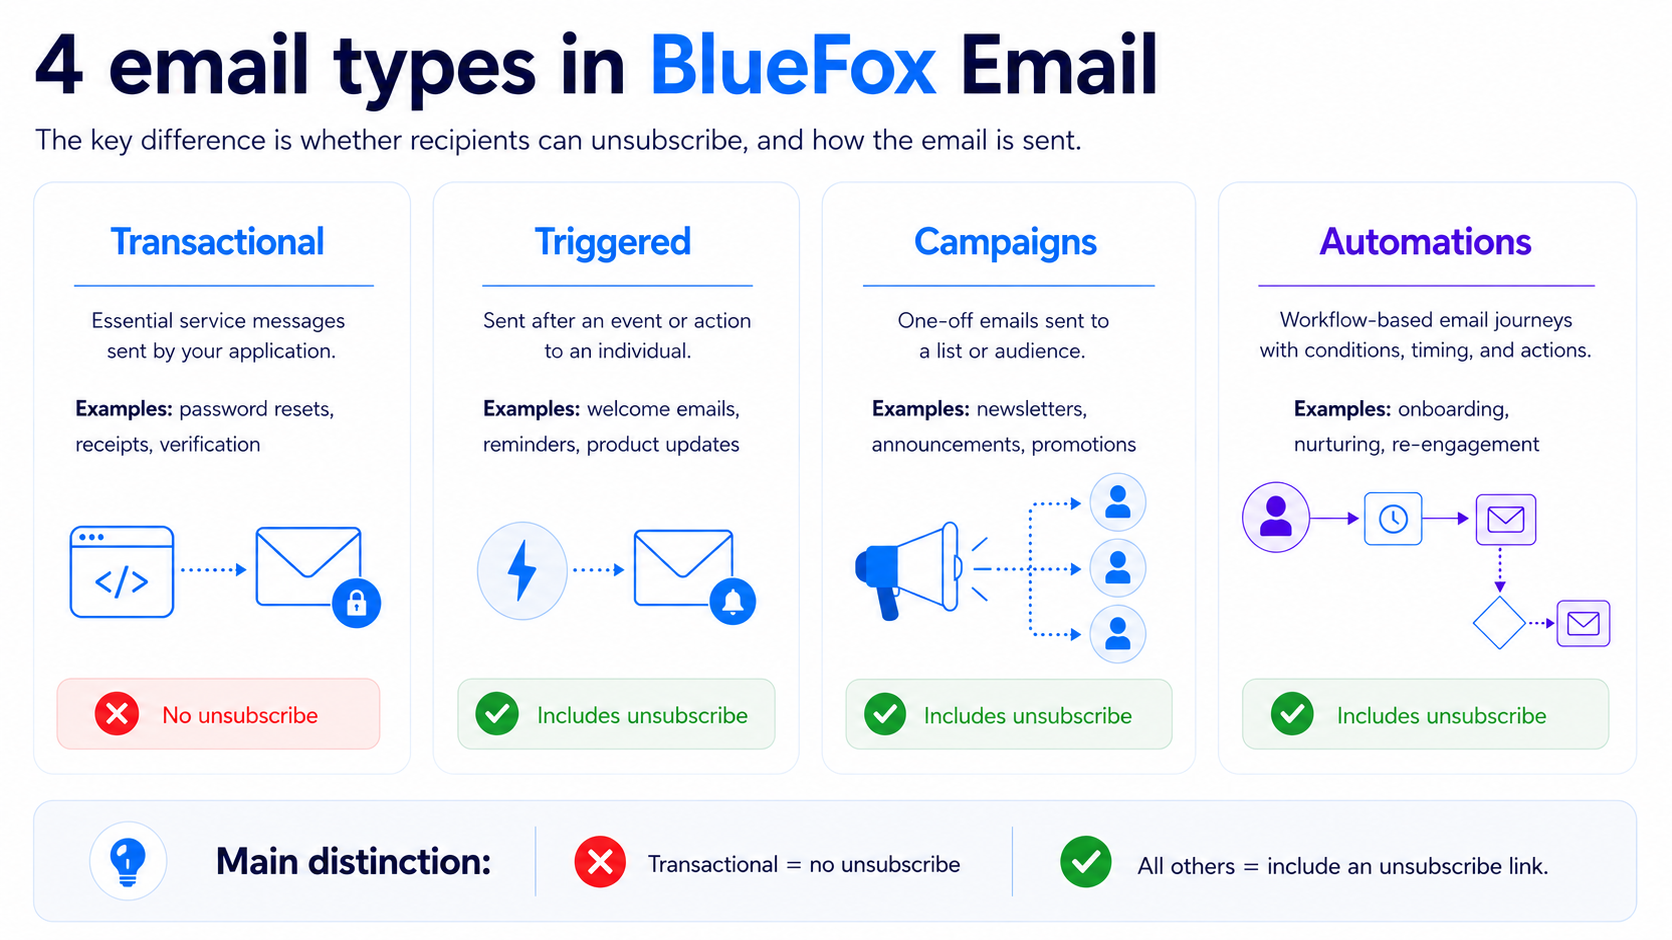
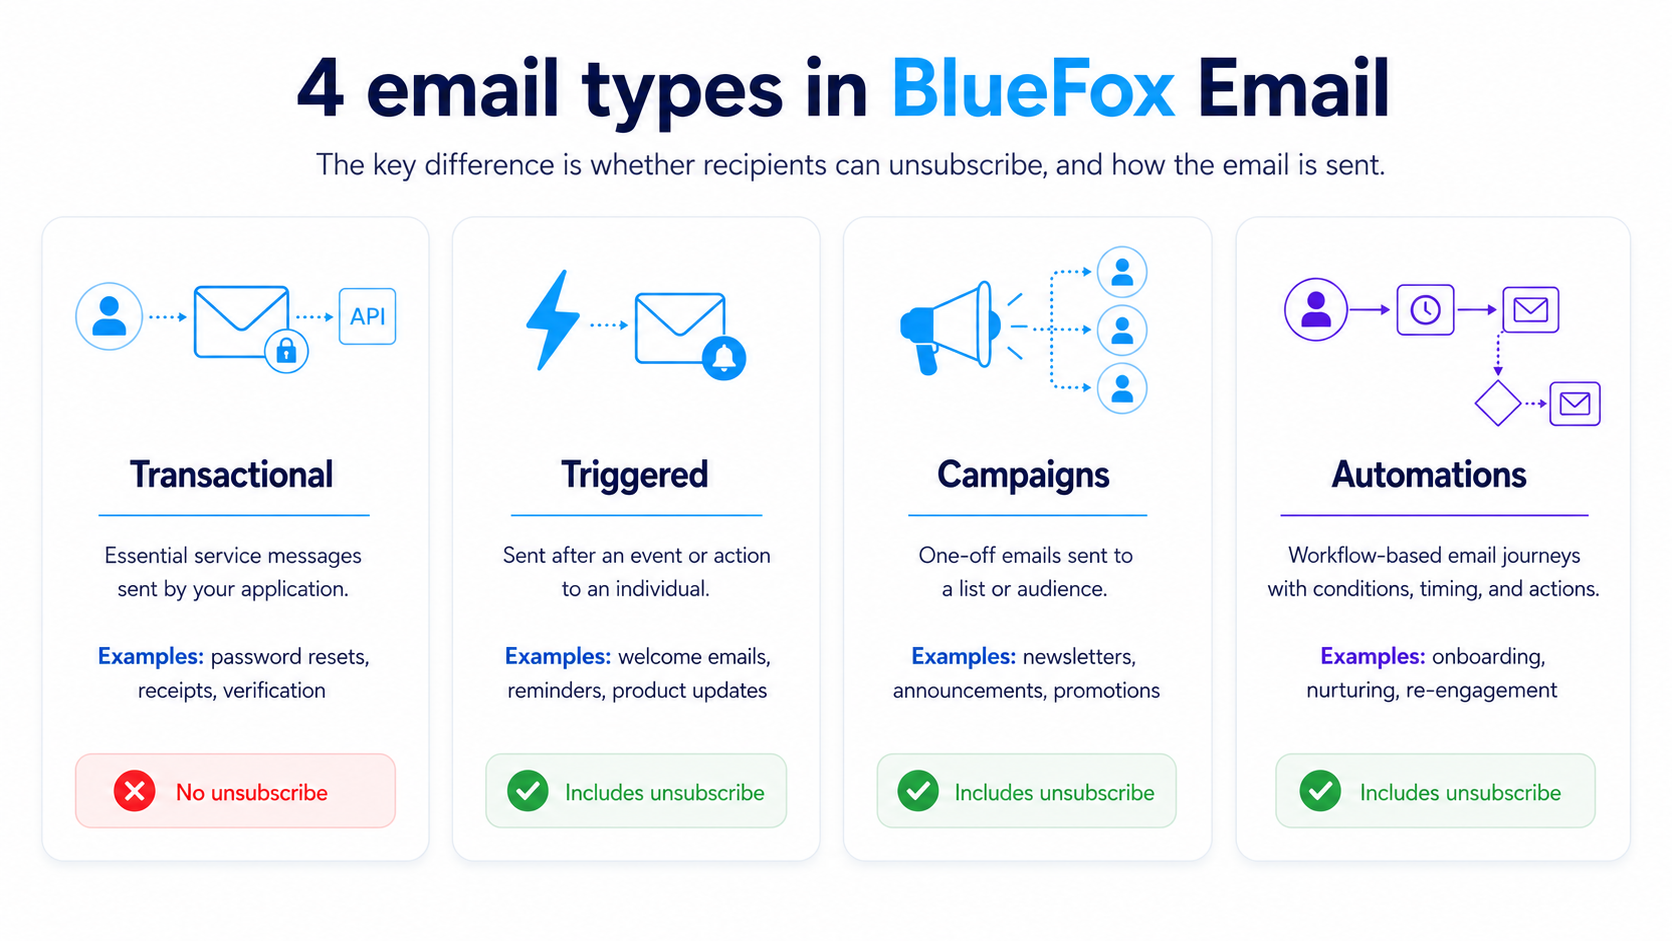
email types article kinda done.

diff --git a/posts/transactional-triggered-campaign-or-automation-understanding-email-types.md b/posts/transactional-triggered-campaign-or-automation-understanding-email-types.md
@@ -1,3 +1,43 @@
+---
+title: "Transactional, Triggered, Campaign or Automation? Understanding Email Types"
+description: "A clear guide to how BlueFox Email categorizes transactional emails, triggered emails, campaigns, and automations, and how to choose the right one."
+thumbnail: /assets/articles/transactional-triggered-campaign-or-automation-understanding-email-types.png
+category: articles
+tags: ['Email Marketing', 'Best Practices', 'Automation']
+sidebar: false
+published: 2026-07-22
+lastUpdated: true
+head:
+  - - meta
+    - name: description
+      content: "A clear guide to how BlueFox Email categorizes transactional emails, triggered emails, campaigns, and automations, and how to choose the right one."
+  - - meta
+    - property: og:title
+      content: "Transactional, Triggered, Campaign or Automation? Understanding Email Types"
+  - - meta
+    - property: og:description
+      content: "Email terminology can be confusing. Learn the practical difference between transactional emails, triggered emails, campaigns, and automations in BlueFox Email."
+  - - meta
+    - property: og:image
+      content: "https://bluefox.email/assets/articles/transactional-triggered-campaign-or-automation-understanding-email-types.png"
+  - - meta
+    - property: og:url
+      content: "https://bluefox.email/posts/transactional-triggered-campaign-or-automation-understanding-email-types"
+  - - meta
+    - name: twitter:card
+      content: "summary_large_image"
+  - - meta
+    - name: twitter:title
+      content: "Transactional, Triggered, Campaign or Automation? Understanding Email Types"
+  - - meta
+    - name: twitter:description
+      content: "Email terminology can be confusing. Learn the practical difference between transactional emails, triggered emails, campaigns, and automations in BlueFox Email."
+  - - meta
+    - name: twitter:image
+      content: "https://bluefox.email/assets/articles/transactional-triggered-campaign-or-automation-understanding-email-types.png"
+layout: post
+---
+
 # Transactional, Triggered, Campaign or Automation? Understanding Email Types
 
 Email terminology can be confusing. A welcome email might be described as a product email, a marketing email, a triggered email, or an automated email. These labels are not necessarily contradictory. They often describe different aspects of the same message.
@@ -20,6 +60,8 @@ Examples include:
 
 Triggered emails, campaigns, and emails sent through automations are different. Recipients should be able to unsubscribe from these messages, and BlueFox Email includes unsubscribe handling for them.
 
+This is closely tied to the principle of [permission-based marketing](/email-marketing-concepts/list-management/permission-based-marketing): recipients who can opt out should always be able to.
+
 This gives you a useful starting point:
 
 > If recipients must receive the message, it may be transactional. If they should be able to stop receiving it, it is not transactional.
@@ -28,7 +70,9 @@ An email should not be classified as transactional simply because you would pref
 
 ## The four types in BlueFox Email
 
-![4 email types in BlueFox Email](./transactional-triggered-campaign-or-automation-understanding-email-types/email-types.png)
+Each of these categories describes how an email is sent and how BlueFox Email handles it. They are not strict content categories: the same welcome email, product update, or reminder could be sent in different ways depending on your workflow.
+
+![4 email types in BlueFox Email](./transactional-triggered-campaign-or-automation-understanding-email-types/email-types.webp)
 
 ### Transactional emails
 
@@ -36,13 +80,13 @@ Transactional emails are essential messages usually sent by an application throu
 
 They are often caused by a particular event, such as a purchase, a login attempt, or a password reset request. In the general sense of the word, many transactional emails are also “triggered.”
 
-However, in BlueFox Email, **Transactional** is a specific sending category. It is intended for messages that do not need an unsubscribe link.
+However, in BlueFox Email, **[Transactional](/docs/projects/transactional-emails)** is a specific sending category. It is intended for messages that do not need an unsubscribe link.
 
 Typical examples include receipts, verification emails, login codes, password resets, and important account alerts.
 
 ### Triggered emails
 
-Triggered emails are emails sent after a specific event or action, while still allowing recipients to unsubscribe.
+[Triggered emails](/docs/projects/triggered-emails) are emails sent after a specific event or action, while still allowing recipients to unsubscribe.
 
 A triggered email does not have to be sent to only one person. It can be sent to one recipient, a group of recipients, or even an entire list.
 
@@ -59,9 +103,11 @@ Triggered emails are useful when your application knows that something happened 
 
 The important distinction is not whether an event caused the email. Both transactional and triggered emails can be event-based. The distinction is whether the message is essential and whether recipients can unsubscribe.
 
+For a deeper look at how triggered emails work in general, see our guide to [triggered emails](/email-marketing-concepts/automation/triggered-emails).
+
 ### Campaigns
 
-Campaigns are one-off emails sent to a subscriber list or audience.
+[Campaigns](/docs/projects/campaigns) are one-off emails sent to a subscriber list or audience.
 
 Newsletters are perhaps the most familiar example, but campaigns can also include:
 
@@ -76,9 +122,11 @@ A campaign usually sends the same core message to multiple recipients, although 
 
 The word “campaign” describes how the email is organized and sent. It does not necessarily describe its content. A campaign might be promotional, educational, product-related, or a mixture of several types.
 
+Unlike a [drip campaign](/email-marketing-concepts/automation/drip-campaigns), a campaign is a one-off send rather than a pre-scheduled sequence.
+
 ### Automations
 
-Automations are email flows that run based on triggers, conditions, schedules, delays, or subscriber information.
+[Automations](/docs/projects/automations) are email flows that run based on triggers, conditions, schedules, delays, or subscriber information.
 
 An automation can contain multiple emails, but it can also contain just a single email if that is what your workflow requires.
 
@@ -102,6 +150,8 @@ Automations are useful for onboarding, lead nurturing, retention, re-engagement,
 Because automations are based on triggers, automation emails are also triggered in the general sense of the word. The difference is that an automation provides a workflow builder for managing when and how emails are sent, while a triggered email is often used when your application directly decides to send a message.
 
 An email inside an automation may still be described as a welcome email, a product email, a promotional email, or a lifecycle email. Automation simply describes the system responsible for sending it.
+
+Read more about [email automation](/email-marketing-concepts/automation/) as a broader marketing concept.
 
 ## Examples of overlap
 
@@ -150,7 +200,7 @@ It could be sent as a **triggered email** if your application decides when to se
 
 You do not need to find the one perfect label for your email. Instead, choose the BlueFox Email feature that matches how the message should behave.
 
-![How to choose the right email type](./transactional-triggered-campaign-or-automation-understanding-email-types/how-to-choose-the-right-email-type.png)
+![How to choose the right email type](./transactional-triggered-campaign-or-automation-understanding-email-types/how-to-choose-the-right-email-type.webp)
 
 Ask these questions:
 
@@ -169,3 +219,5 @@ Use an automation.
 The content of these emails may overlap. A product email can be sent as a campaign, a triggered email, or through an automation. A message caused by an event can be either transactional or triggered. An automation email is also triggered, but it uses an automation workflow to control when and how it is sent.
 
 The important thing is not what the email is called in general conversation. It is whether recipients can unsubscribe, what caused the email to be sent, and which BlueFox Email feature best fits your workflow.
+
+If you're building your list before sending your first campaign or triggered email, see our guide on [building a high-quality email list](/posts/how-to-build-a-high-quality-email-list-in-bluefox-email).
